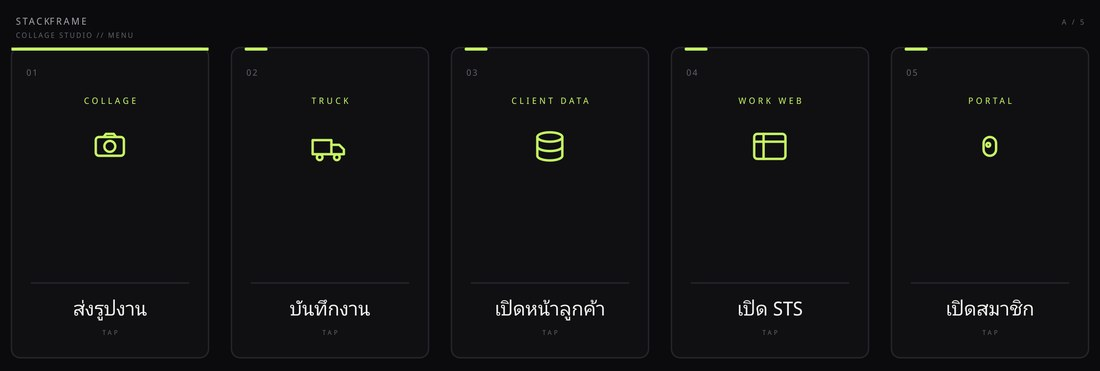
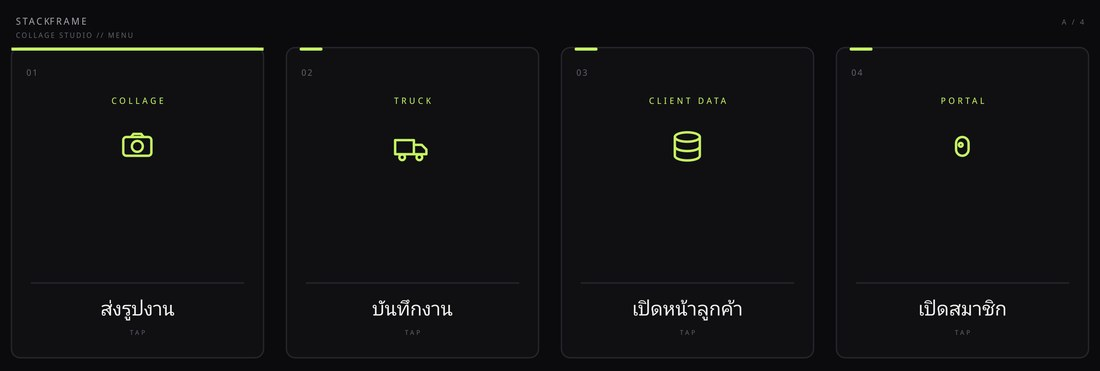
feat(richmenu): drop STS button - 4 buttons in one row
Remove เปิด STS (oms.cfwenterprise.com/sts, reported broken). Cells now
LIFF / truck / data / portal, four equal 625px full-height columns.
COL switched to W/4; overlay taglines updated (4 CHANNELS/CREW 4/NODES 4
etc). Redeployed ROYAL GOLD as default.

diff --git a/frontend/previews/richmenu-v2/index.html b/frontend/previews/richmenu-v2/index.html
@@ -15,7 +15,7 @@
   footer code{background:#1e2129;padding:2px 6px;border-radius:6px}
 </style></head><body>
 <header><h1>Rich menu redesign · STACK<span style="color:var(--acc)">//</span>FRAME</h1>
-<p>4 concepts, 2500×843, black backgrounds. Tap areas identical in all: 5 ปุ่มเรียงแถวเดียว (ส่งรูปงาน LIFF · บันทึกงาน truck · เปิดหน้าลูกค้า data · เปิด STS oms.cfwenterprise.com/sts · เปิดสมาชิก me.mcky.space)</p></header>
+<p>4 concepts, 2500×843, black backgrounds. Tap areas identical in all: 4 ปุ่มเรียงแถวเดียว (ส่งรูปงาน LIFF · บันทึกงาน truck · เปิดหน้าลูกค้า data · เปิดสมาชิก me.mcky.space)</p></header>
 <div class="grid">
 <div class="card"><img src="f-noir-web.jpg" alt="NOIR NIGHTS">
 <div class="meta"><b>NOIR NIGHTS</b><span>FILM NOIR / CRIMSON NEON</span></div>

diff --git a/frontend/previews/richmenu/index.html b/frontend/previews/richmenu/index.html
@@ -15,7 +15,7 @@
   footer code{background:#1e2129;padding:2px 6px;border-radius:6px}
 </style></head><body>
 <header><h1>Rich menu redesign · STACK<span style="color:var(--acc)">//</span>FRAME</h1>
-<p>9 concepts, 2500×843, black backgrounds. Tap areas identical in all: 5 ปุ่มเรียงแถวเดียว (ส่งรูปงาน LIFF · บันทึกงาน truck · เปิดหน้าลูกค้า data · เปิด STS oms.cfwenterprise.com/sts · เปิดสมาชิก me.mcky.space)</p></header>
+<p>9 concepts, 2500×843, black backgrounds. Tap areas identical in all: 4 ปุ่มเรียงแถวเดียว (ส่งรูปงาน LIFF · บันทึกงาน truck · เปิดหน้าลูกค้า data · เปิดสมาชิก me.mcky.space)</p></header>
 <div class="grid">
 <div class="card"><img src="b-neo-web.jpg" alt="NEO GRID">
 <div class="meta"><b>NEO GRID</b><span>NEON CYAN x MAGENTA</span></div>
